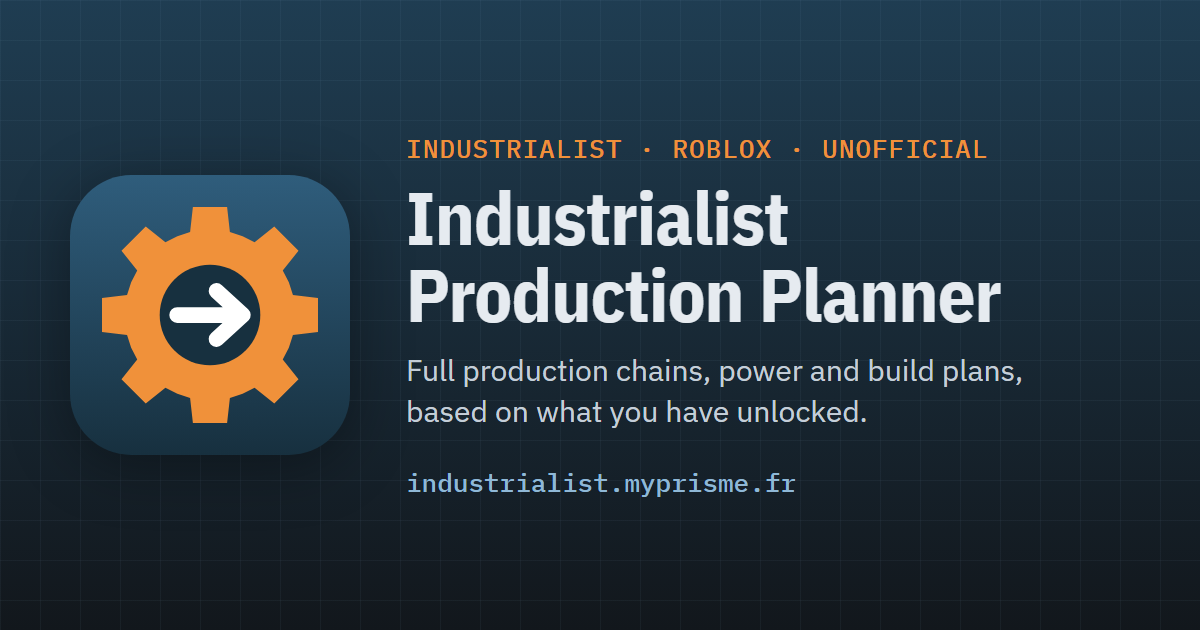
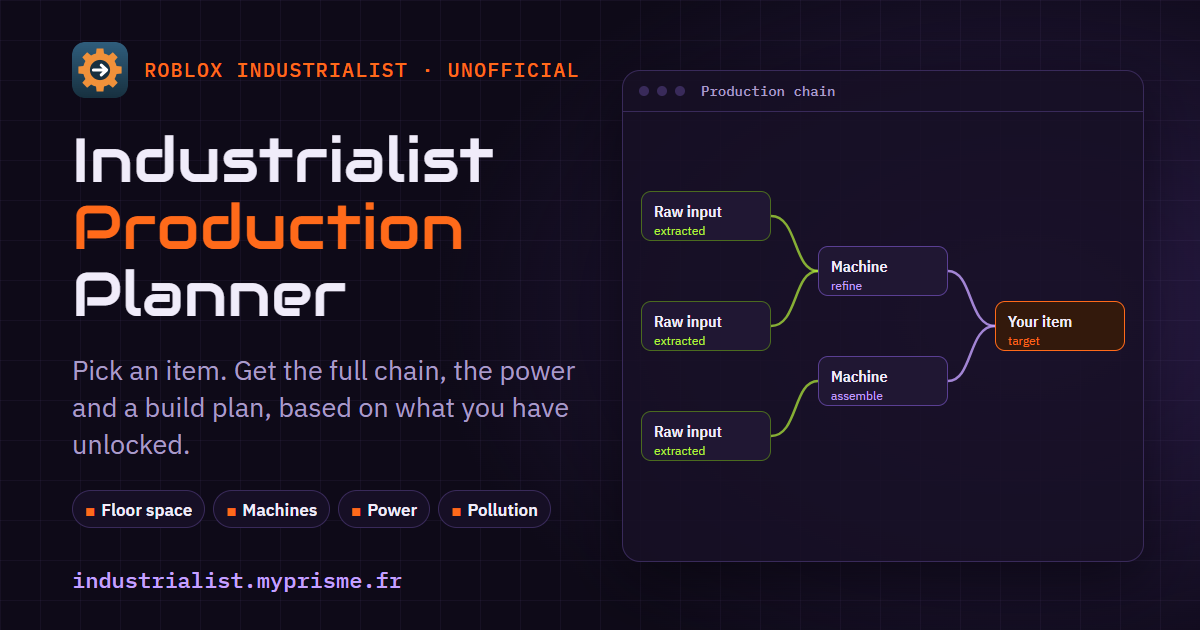
Image d'aperçu des liens refaite aux couleurs actuelles du site

diff --git a/scripts/og-image.html b/scripts/og-image.html
@@ -1,35 +1,70 @@
 <!doctype html>
-<!-- Image d'aperçu des liens (og:image, 1200 × 630), S33 : en anglais, comme l'aperçu Discord (décision S16 Public).
+<!-- Image d'aperçu des liens (og:image, 1200 × 630) : en anglais, comme l'aperçu Discord (décision S16 Public).
+     Refaite aux couleurs actuelles du site (violet sombre, orange, lilas, vert ; titre Audiowide) avec un mini-graphe de chaîne.
      Rendu par Chrome sans fenêtre, depuis la racine du dépôt :
-       chrome --headless --hide-scrollbars --window-size=1200,630 --screenshot=public/og-image.png scripts/og-image.html -->
+       chrome --headless --hide-scrollbars --window-size=1200,630 --virtual-time-budget=5000 --screenshot=public/og-image.png scripts/og-image.html -->
 <html lang="en">
 <head>
 <meta charset="utf-8">
-<link rel="stylesheet" href="https://fonts.googleapis.com/css2?family=IBM+Plex+Mono:wght@500&family=IBM+Plex+Sans+Condensed:wght@700&family=IBM+Plex+Sans:wght@400&display=swap">
+<link rel="stylesheet" href="https://fonts.googleapis.com/css2?family=Audiowide&family=IBM+Plex+Mono:wght@500&family=IBM+Plex+Sans+Condensed:wght@600&family=IBM+Plex+Sans:wght@400;600&display=swap">
 <style>
-  html, body { margin: 0; width: 1200px; height: 630px; overflow: hidden; }
+  :root { --bg:#0e0a18; --surface:#160f25; --panel2:#201733; --ink:#f0ecfa; --muted:#a99cc8; --line:#392a5a; --accent:#ff6a1a; --steel:#c4a1ff; --acc2:#b6f23a; }
+  html, body { margin:0; width:1200px; height:630px; overflow:hidden; }
   body {
     background:
-      linear-gradient(rgba(143, 184, 214, .06) 1px, transparent 1px) 0 0 / 40px 40px,
-      linear-gradient(90deg, rgba(143, 184, 214, .06) 1px, transparent 1px) 0 0 / 40px 40px,
-      linear-gradient(180deg, #1f3d52 0%, #12171c 100%);
-    color: #e6ebf0; font-family: "IBM Plex Sans", sans-serif;
-    display: flex; align-items: center; gap: 56px; padding: 0 70px; box-sizing: border-box;
+      linear-gradient(rgba(196,161,255,.05) 1px, transparent 1px) 0 0 / 40px 40px,
+      linear-gradient(90deg, rgba(196,161,255,.05) 1px, transparent 1px) 0 0 / 40px 40px,
+      radial-gradient(ellipse 70% 90% at 85% 50%, #2a1b48 0%, transparent 70%),
+      var(--bg);
+    color:var(--ink); font-family:"IBM Plex Sans", sans-serif; position:relative;
   }
-  .logo { width: 280px; height: 280px; flex: none; border-radius: 56px; filter: drop-shadow(0 10px 30px rgba(0, 0, 0, .35)); }
-  .eyebrow { font: 500 26px "IBM Plex Mono", monospace; letter-spacing: .04em; color: #f0913a; }
-  h1 { font: 700 74px/1.04 "IBM Plex Sans Condensed", sans-serif; margin: 14px 0 18px; letter-spacing: -.01em; }
-  p { font-size: 30px; line-height: 1.35; color: #c4ced8; margin: 0; }
-  .url { margin-top: 34px; font: 500 26px "IBM Plex Mono", monospace; color: #8fb8d6; }
+  .left { position:absolute; left:72px; top:-30px; bottom:30px; width:520px; display:flex; flex-direction:column; justify-content:center; }
+  .brand { display:flex; align-items:center; gap:16px; }
+  .brand img { width:56px; height:56px; border-radius:13px; }
+  .eyebrow { font:500 20px "IBM Plex Mono", monospace; letter-spacing:.06em; color:var(--accent); }
+  h1 { font:400 62px/1.08 Audiowide, sans-serif; margin:30px 0 22px; letter-spacing:.01em; }
+  h1 em { font-style:normal; color:var(--accent); }
+  p { font-size:27px; line-height:1.38; color:var(--muted); margin:0; }
+  .chips { display:flex; flex-wrap:wrap; gap:8px; margin-top:28px; }
+  .chip { font:600 17px "IBM Plex Sans", sans-serif; padding:6px 12px; border:1px solid var(--line); border-radius:999px; background:var(--surface); color:var(--ink); }
+  .chip b { color:var(--accent); margin-right:6px; }
+  .url { position:absolute; left:72px; bottom:36px; font:500 22px "IBM Plex Mono", monospace; color:var(--steel); }
+  /* mini-graphe */
+  .graph { position:absolute; right:56px; top:70px; width:520px; height:490px; border:1px solid var(--line); border-radius:18px; background:rgba(22,15,37,.85); box-shadow:0 20px 60px rgba(0,0,0,.5); overflow:hidden; }
+  .bar { height:40px; border-bottom:1px solid var(--line); display:flex; align-items:center; gap:8px; padding:0 16px; font:500 14px "IBM Plex Mono", monospace; color:var(--muted); }
+  .bar i { width:10px; height:10px; border-radius:50%; background:var(--line); }
+  svg { position:absolute; left:0; top:70px; }
+  .n { position:absolute; width:130px; box-sizing:border-box; height:50px; padding:9px 12px; border:1px solid var(--line); border-radius:10px; background:var(--panel2); font:600 16px "IBM Plex Sans Condensed", sans-serif; }
+  .n small { display:block; font:400 12px "IBM Plex Sans", sans-serif; color:var(--muted); margin-top:2px; }
+  .n.raw { border-color:#4b6b1f; } .n.raw small { color:var(--acc2); }
+  .n.goal { border-color:var(--accent); background:#33190c; } .n.goal small { color:var(--accent); }
+  .n.m { border-color:#5a3f93; } .n.m small { color:var(--steel); }
 </style>
 </head>
 <body>
-  <img class="logo" src="../public/favicon.svg" alt="">
-  <div>
-    <div class="eyebrow">INDUSTRIALIST · ROBLOX · UNOFFICIAL</div>
-    <h1>Industrialist<br>Production Planner</h1>
-    <p>Full production chains, power and build plans,<br>based on what you have unlocked.</p>
-    <div class="url">industrialist.myprisme.fr</div>
+  <div class="left">
+    <div class="brand"><img src="../public/favicon.svg" alt=""><span class="eyebrow">ROBLOX INDUSTRIALIST · UNOFFICIAL</span></div>
+    <h1>Industrialist<br><em>Production</em><br>Planner</h1>
+    <p>Pick an item. Get the full chain, the power and a build plan, based on what you have unlocked.</p>
+    <div class="chips"><span class="chip"><b>■</b>Floor space</span><span class="chip"><b>■</b>Machines</span><span class="chip"><b>■</b>Power</span><span class="chip"><b>■</b>Pollution</span></div>
+  </div>
+  <div class="url">industrialist.myprisme.fr</div>
+
+  <div class="graph">
+    <div class="bar"><i></i><i></i><i></i><span style="margin-left:8px">Production chain</span></div>
+    <svg width="520" height="450" viewBox="0 0 520 450" fill="none" stroke-width="2.5" stroke-linecap="round">
+      <path d="M148 75 C175 75 170 130 195 130" stroke="#b6f23a" opacity=".7"/>
+      <path d="M148 185 C175 185 170 130 195 130" stroke="#b6f23a" opacity=".7"/>
+      <path d="M148 295 C175 295 170 240 195 240" stroke="#b6f23a" opacity=".7"/>
+      <path d="M325 130 C350 130 345 185 372 185" stroke="#c4a1ff" opacity=".8"/>
+      <path d="M325 240 C350 240 345 185 372 185" stroke="#c4a1ff" opacity=".8"/>
+    </svg>
+    <div class="n raw" style="left:18px;top:120px">Raw input<small>extracted</small></div>
+    <div class="n raw" style="left:18px;top:230px">Raw input<small>extracted</small></div>
+    <div class="n raw" style="left:18px;top:340px">Raw input<small>extracted</small></div>
+    <div class="n m" style="left:195px;top:175px">Machine<small>refine</small></div>
+    <div class="n m" style="left:195px;top:285px">Machine<small>assemble</small></div>
+    <div class="n goal" style="left:372px;top:230px">Your item<small>target</small></div>
   </div>
 </body>
 </html>
